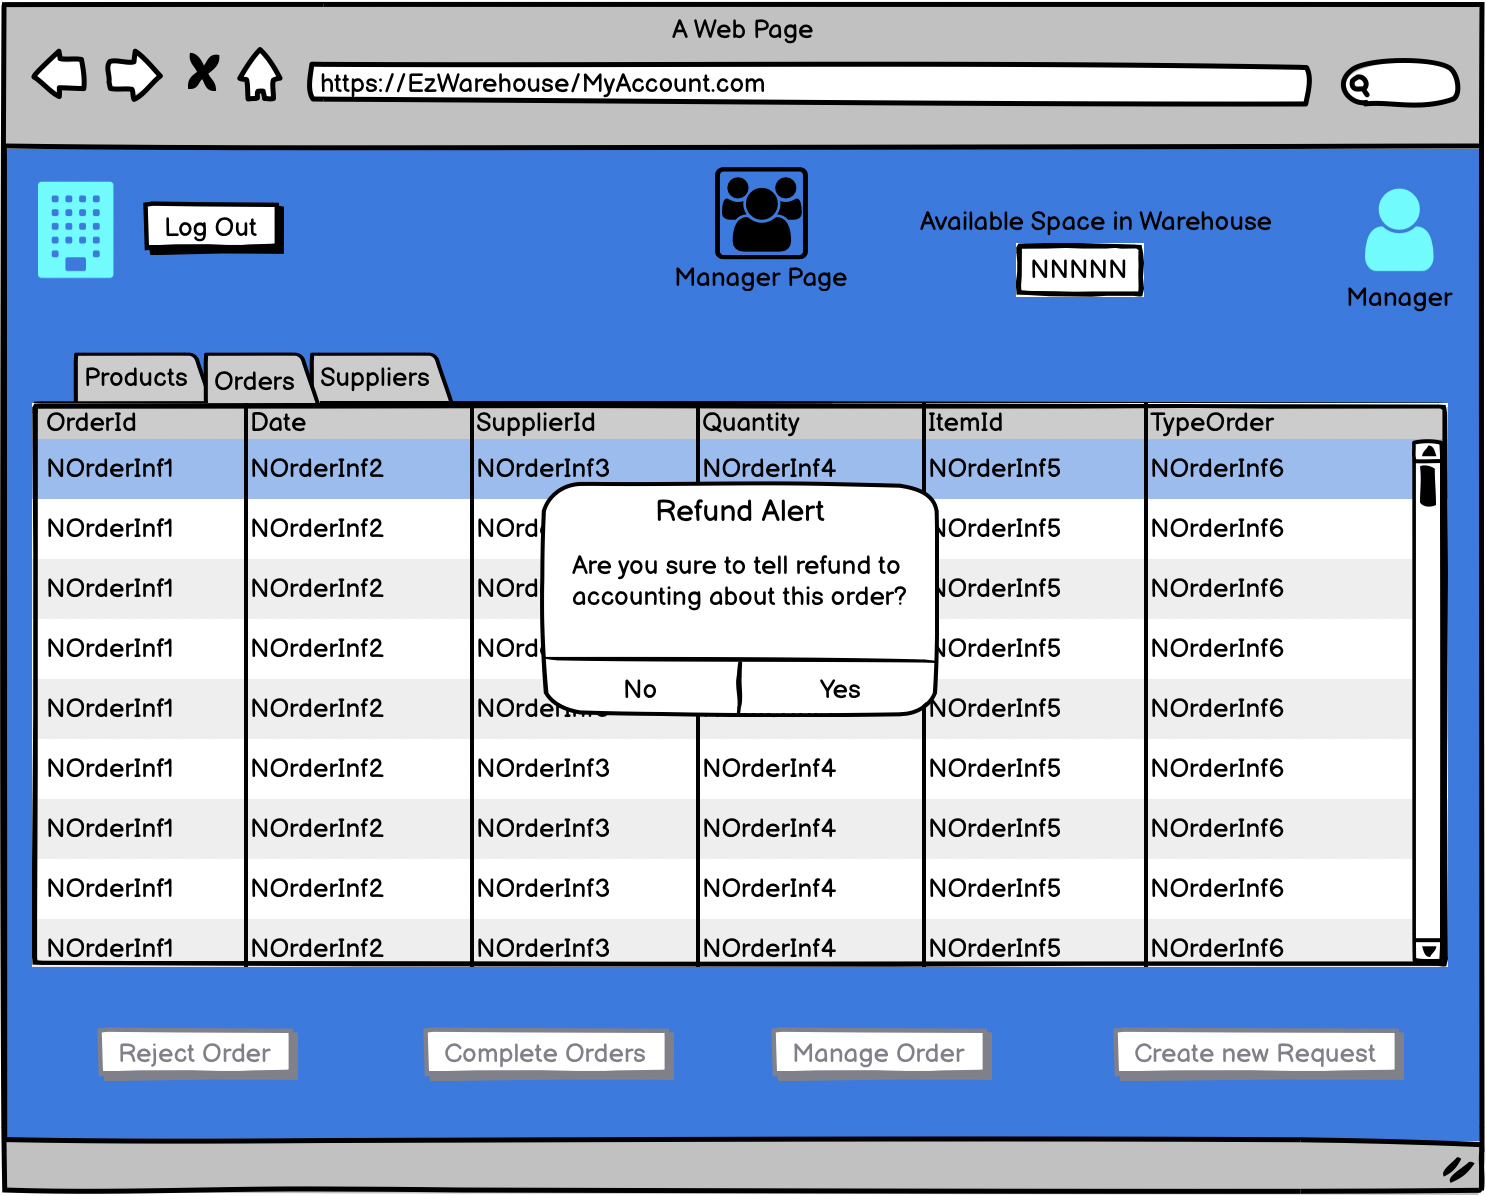
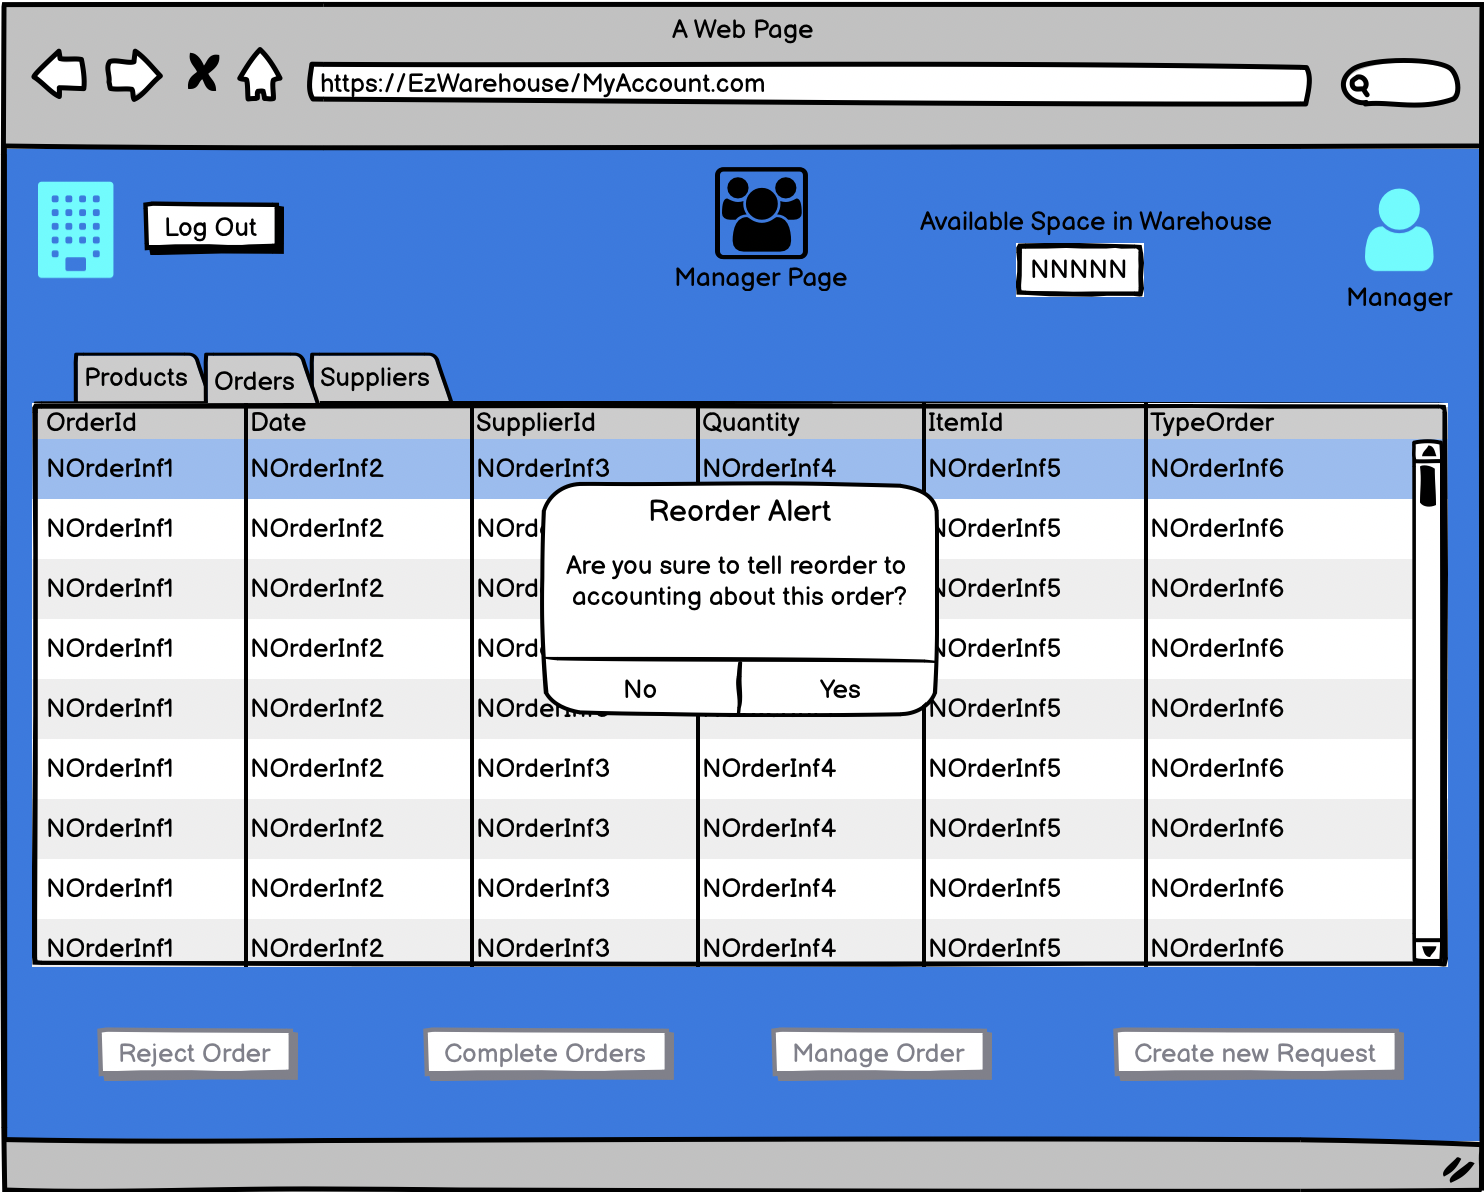
Adjust some GUI about UC3

diff --git a/GUIPrototype.md b/GUIPrototype.md
@@ -72,7 +72,7 @@ The Quality Checker Employee select the menu about 'Add Comment QC' and the wind
 Finally, Quality Checker Employee can apply the comment with 'Save' button or to select 'Turn Back' button to return to initial page. In particular, if the Employee selects 'Save' button, the system will show an alert to confirm the changes:
 ![](GUI_Images/Employee/Quality2.png)
 
-Manager can also sent a request to refund an order to accounting. To make this, he/she accesses to system in the screen about orders and to select the order to refund. Then he/she can click on 'Create New Request' and, in this case, the system understands that's a refund question to accounting and sends an alert to confirm this
+Manager can also sent a request to reorder an item to accounting. To make this, he/she accesses to system in the screen about orders and selects what to reorder. Then he/she can click on 'Create New Request' and, in this case, the system understands that's a reorder question to accounting and sends an alert to confirm this
 ![](GUI_Images/Manager/OrderSelected.png)
 ![](GUI_Images/Manager/RefundAlert.png)
 
